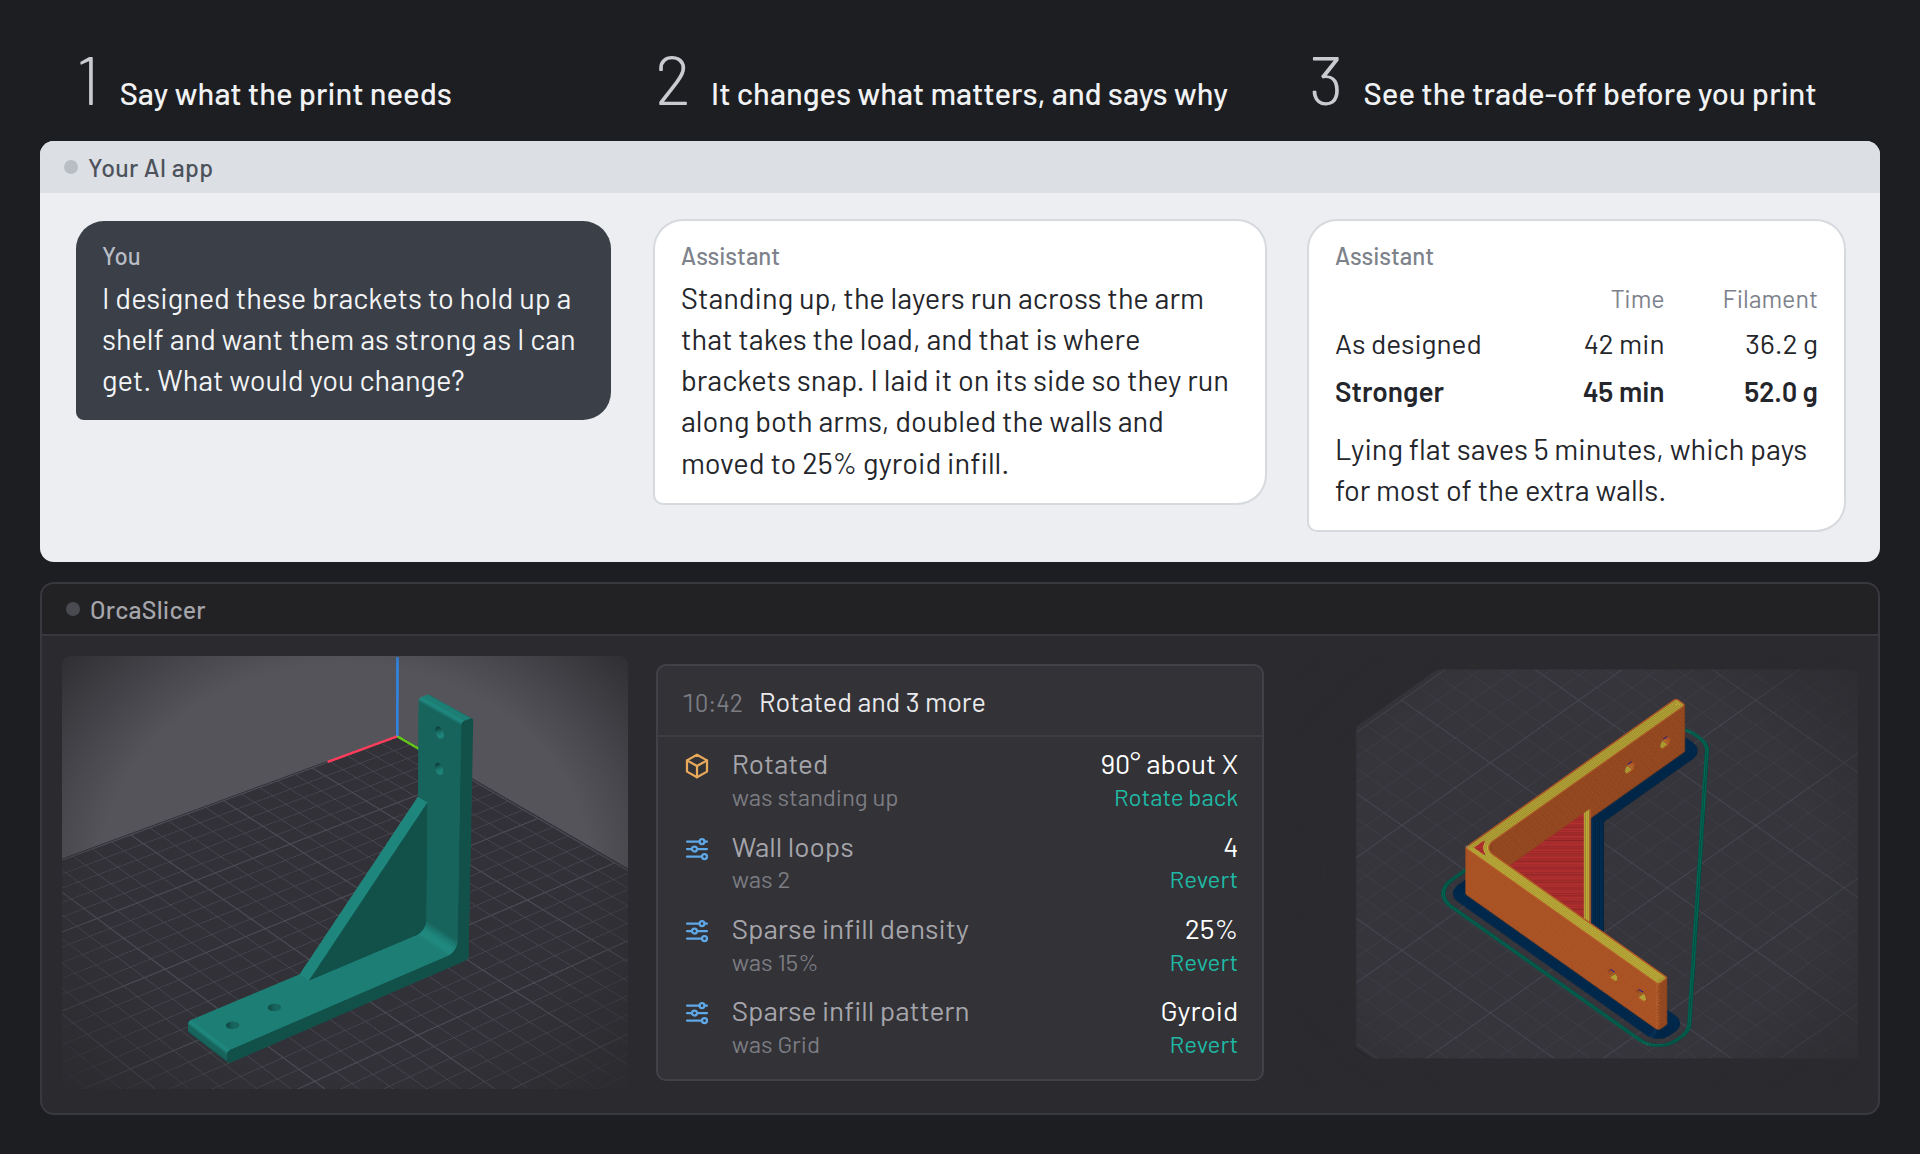
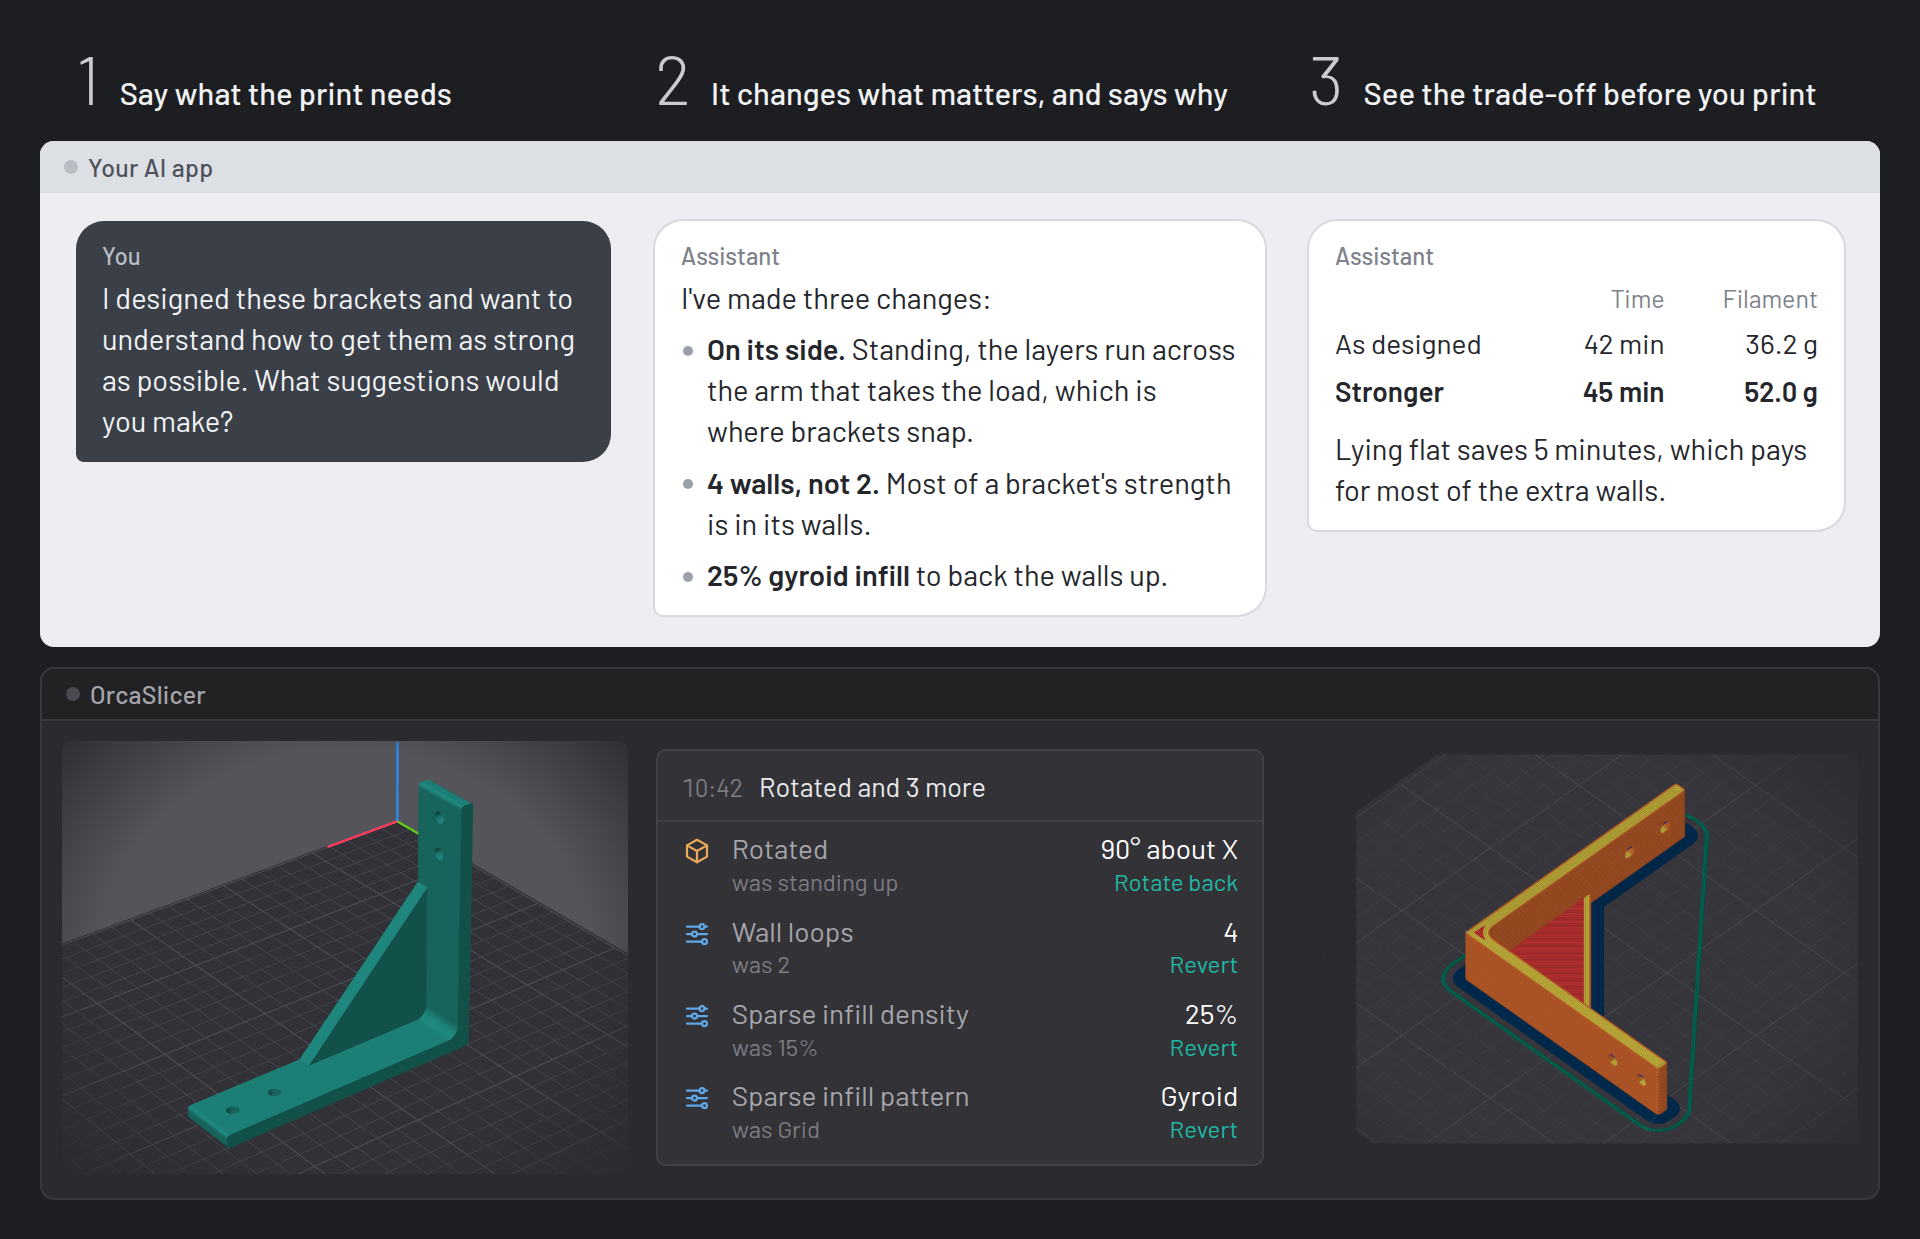
doc: story picture question and an easier-to-read reply

diff --git a/README.md b/README.md
@@ -13,7 +13,7 @@
   <a href="https://lobehub.com/mcp/maxellis-orcaslicer-mcp"><img alt="MCP Badge" src="https://lobehub.com/badge/mcp/maxellis-orcaslicer-mcp"></a>
 </p>
 
-<p align="center"><img src="https://raw.githubusercontent.com/MaxEllis/orcaslicer-mcp/main/docs/images/story.png" alt="Three steps: a chat in your AI app above, OrcaSlicer below. 1: you write that you designed these brackets to hold up a shelf and want them as strong as you can get; OrcaSlicer shows the bracket standing. 2: the assistant explains that standing up, the layers run across the arm that takes the load, and lays it on its side with more walls and 25% gyroid infill; OrcaSlicer's MCP panel lists each change with Rotate back or Revert. 3: OrcaSlicer's slices compared: 42 min and 36.2 g as designed, 45 min and 52.0 g stronger; lying flat saves 5 minutes."></p>
+<p align="center"><img src="https://raw.githubusercontent.com/MaxEllis/orcaslicer-mcp/main/docs/images/story.png" alt="Three steps: a chat in your AI app above, OrcaSlicer below. 1: you write that you designed these brackets and want to know how to get them as strong as possible; OrcaSlicer shows the bracket standing. 2: the assistant makes three changes and says why: on its side, because standing up the layers run across the arm that takes the load; 4 walls instead of 2; 25% gyroid infill; OrcaSlicer's MCP panel lists each change with Rotate back or Revert. 3: OrcaSlicer's slices compared: 42 min and 36.2 g as designed, 45 min and 52.0 g stronger; lying flat saves 5 minutes."></p>
 
 You talk to the assistant in your usual AI app, in plain words. It makes the changes in OrcaSlicer, in the window you already use: settings, presets, models, slicing. A panel beside the 3D view lists every change it makes, with a way to undo each one.
 
@@ -57,7 +57,7 @@ In Claude Desktop, install `orcaslicer-mcp-<version>.mcpb` from the [latest rele
 Goals, in your own words, the way you'd ask a friend who knows OrcaSlicer:
 
 - *"This lid has to press onto a 40 mm jar. What do I change so it fits first time?"*
-- *"I designed these brackets to hold up a shelf and want them as strong as I can get. What would you change?"*
+- *"I designed these brackets and want to understand how to get them as strong as possible. What suggestions would you make?"*
 - *"It's going on a car dashboard. Will PLA survive, and what should I change if I use PETG?"*
 - *"The top of this box looks rough. How do I get it smooth?"*
 - *"Why does this take six hours, and what can I do about it?"*
